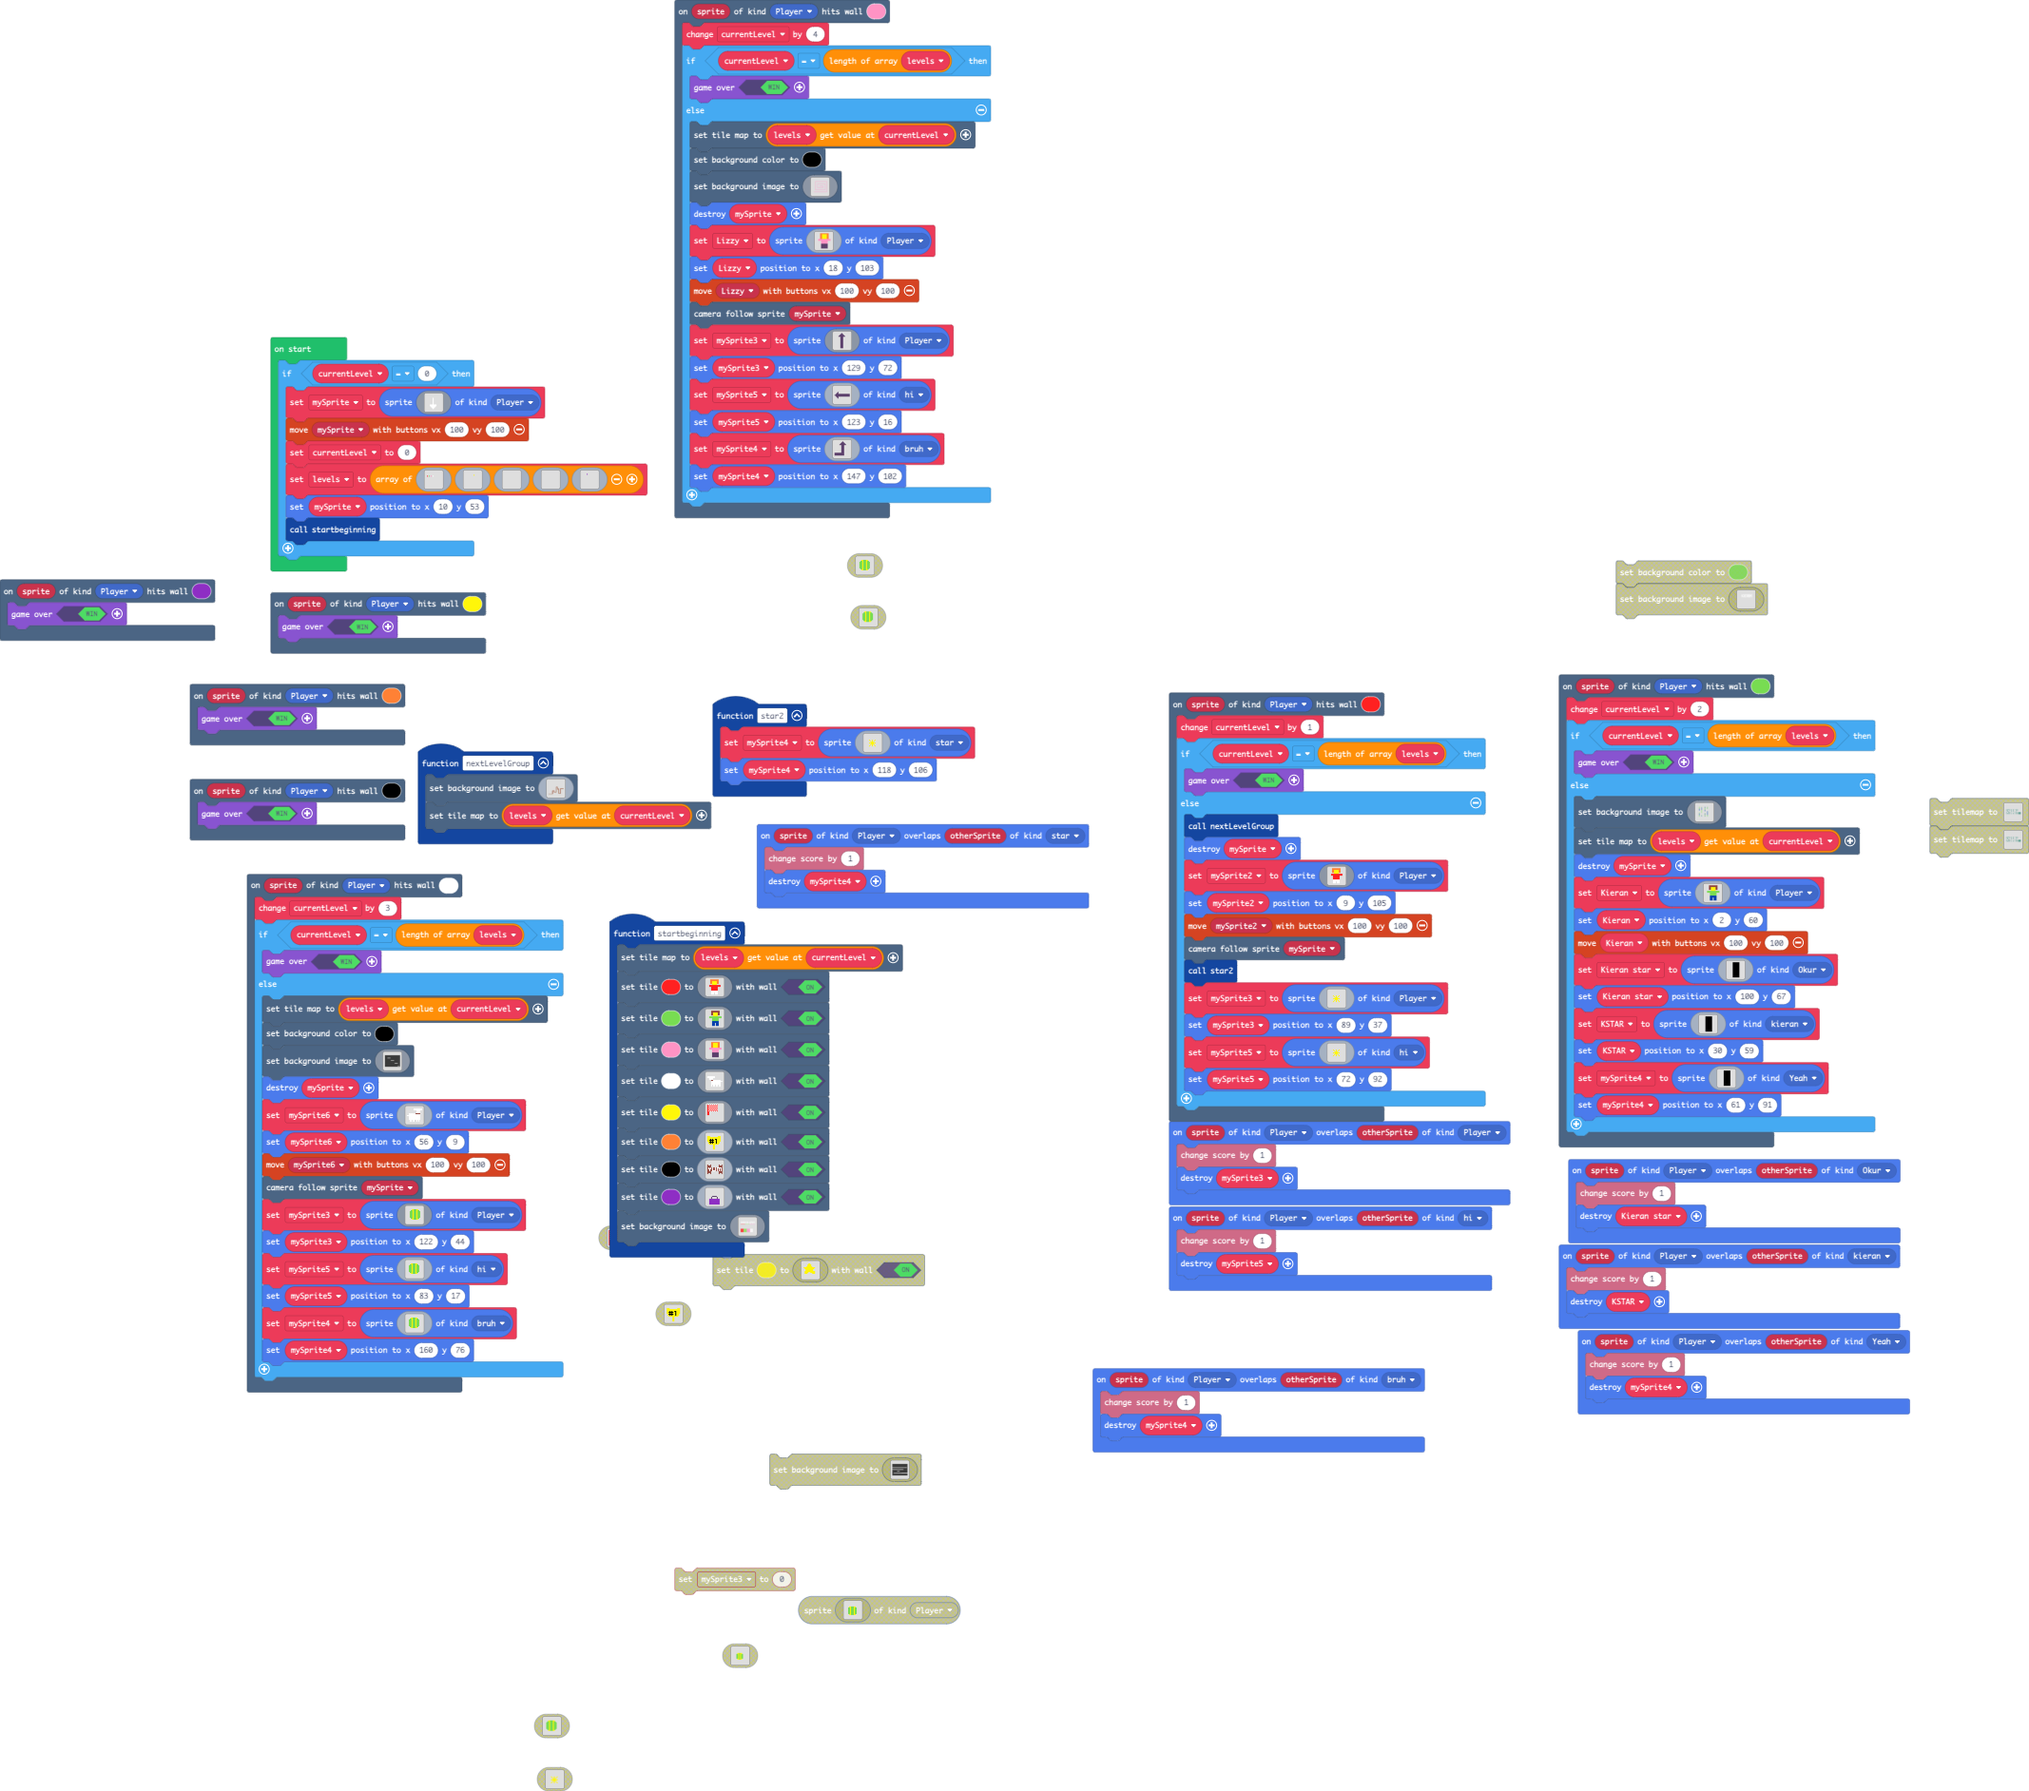
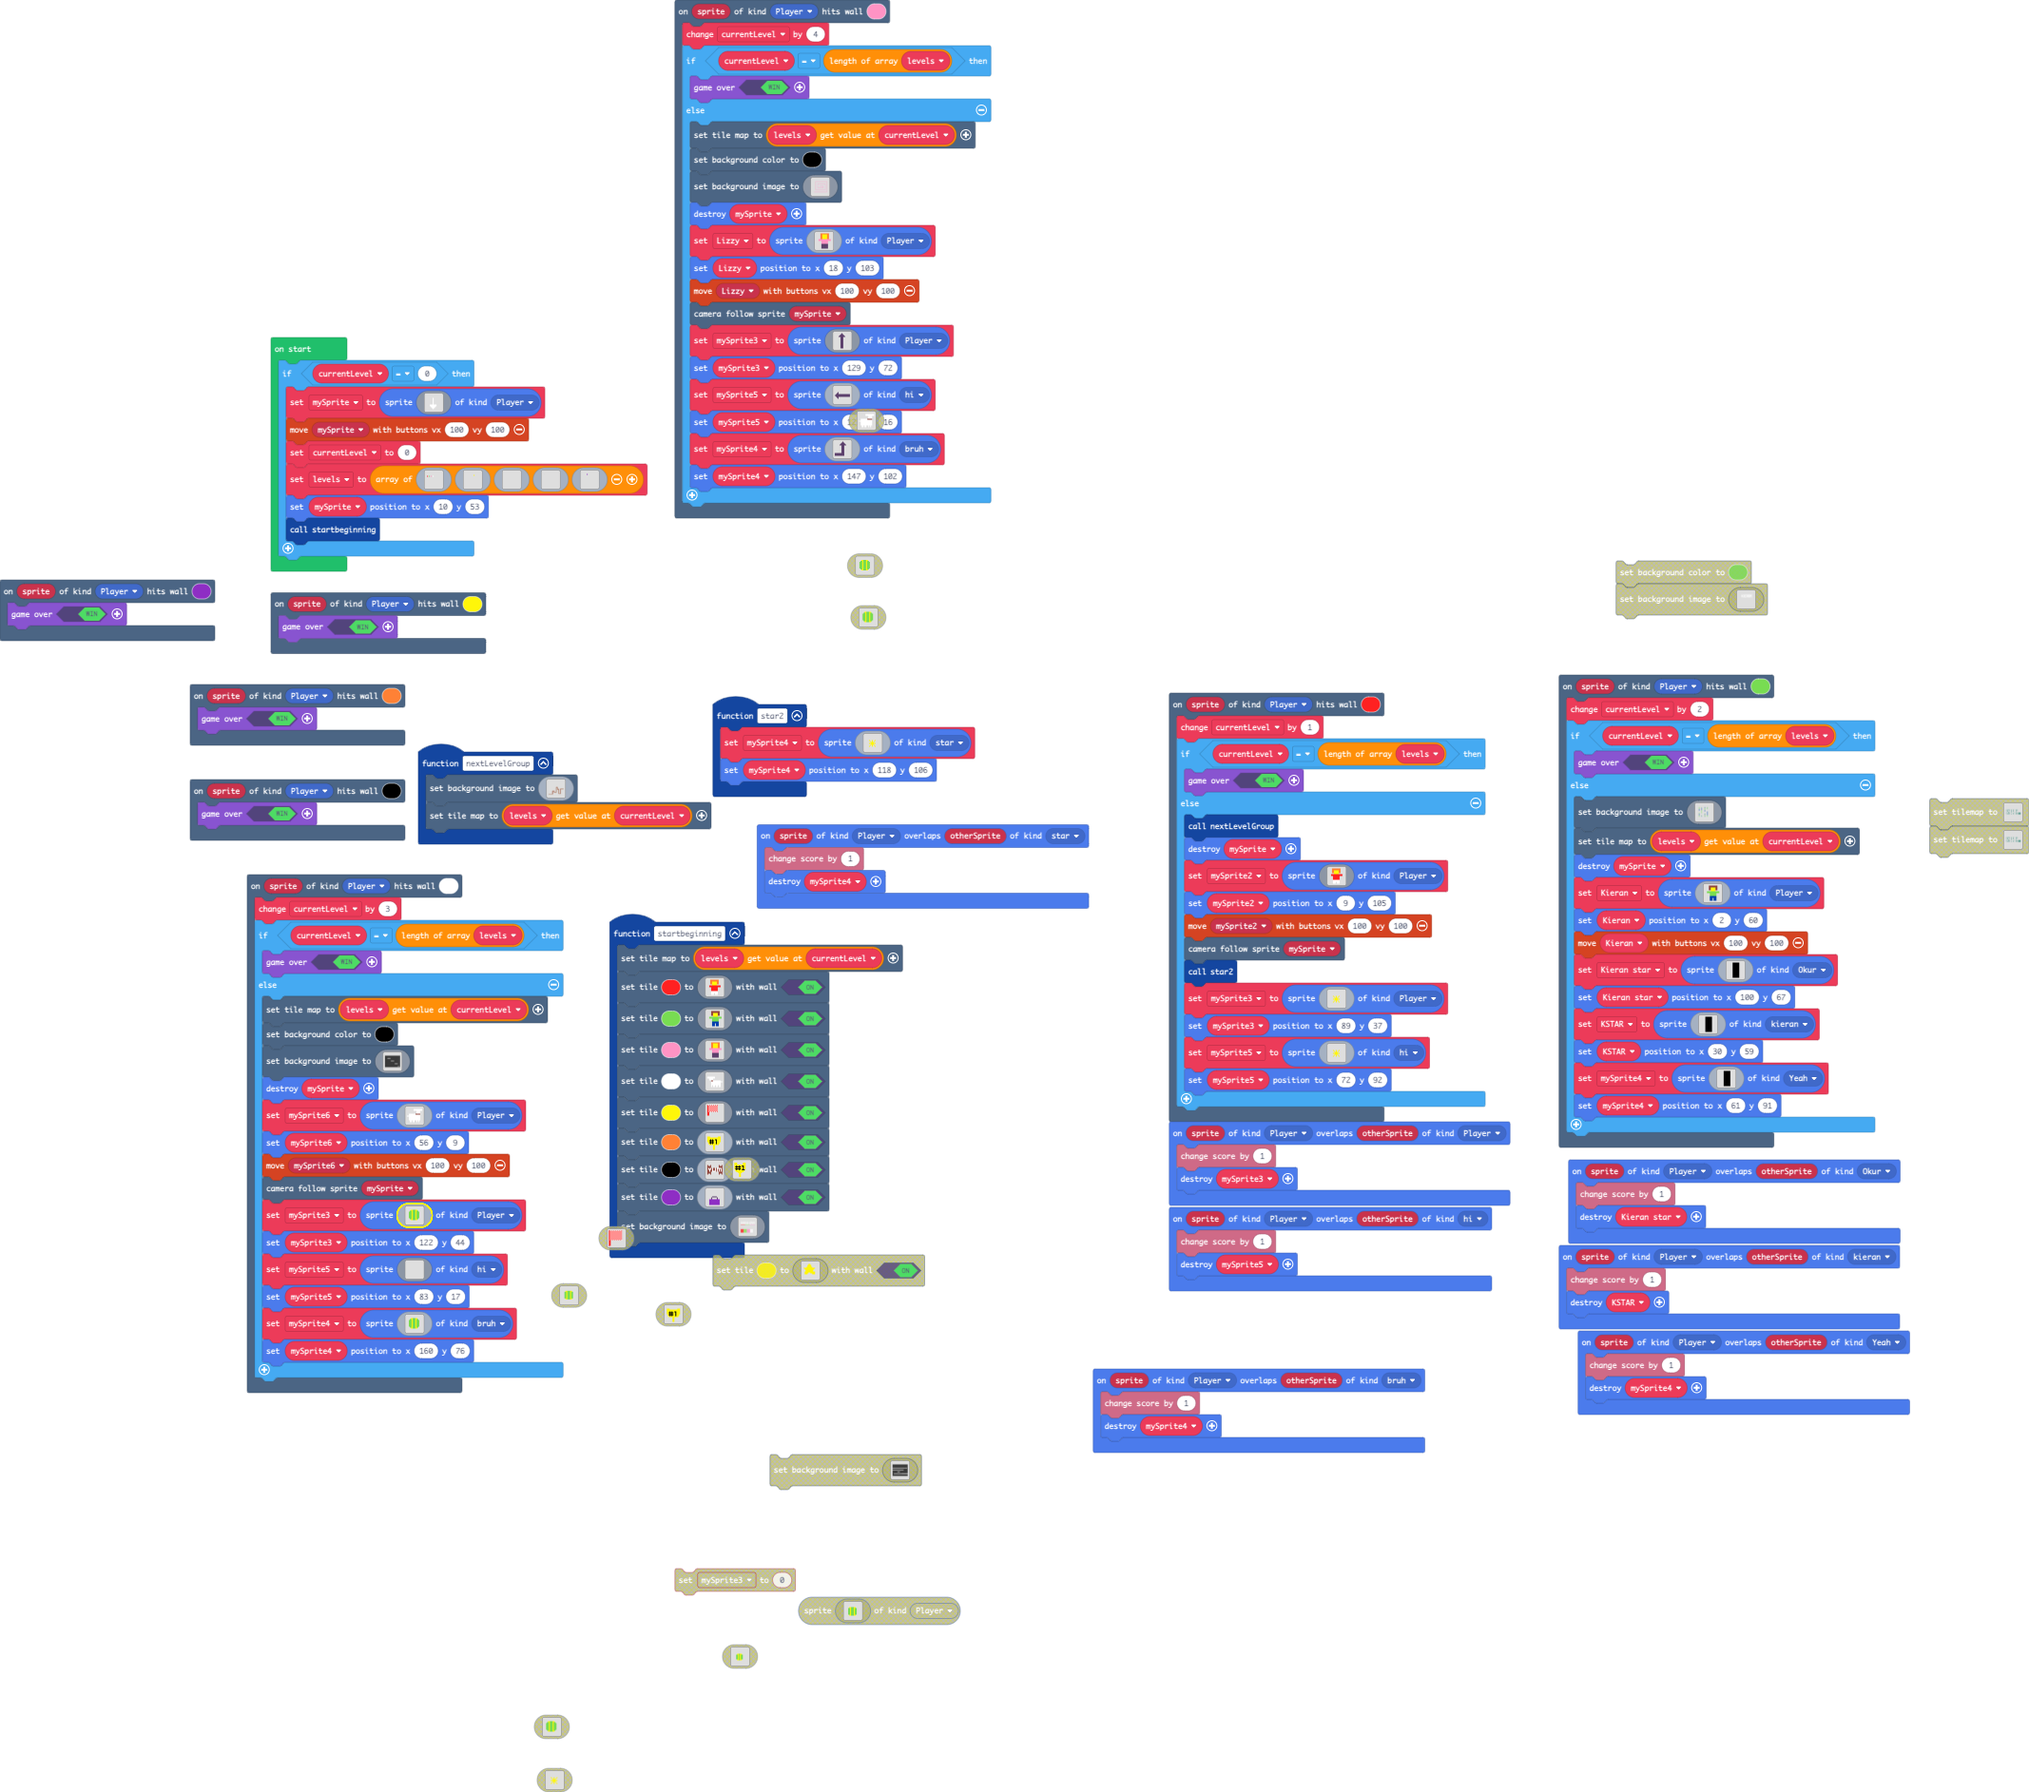
Update main.blocks, main.ts

diff --git a/main.ts b/main.ts
@@ -1029,17 +1029,17 @@ scene.onHitTile(SpriteKind.Player, 1, function (sprite) {
         mySprite3 = sprites.create(img`
             . . . . . . . . . . . . . . . . 
             . . . . . . . . . . . . . . . . 
-            . . . . . 5 5 7 7 7 5 5 . . . . 
-            . . . . 7 7 5 7 7 7 5 7 7 . . . 
-            . . . 7 7 7 5 7 7 7 5 7 7 7 . . 
-            . . . 7 7 7 5 7 7 7 5 7 7 7 . . 
-            . . . 7 7 7 5 7 7 7 5 7 7 7 . . 
-            . . . 7 7 7 5 7 7 7 5 7 7 7 . . 
-            . . . 7 7 7 5 7 7 7 5 7 7 7 . . 
-            . . . 7 7 7 5 7 7 7 5 7 7 7 . . 
-            . . . 7 7 7 5 7 7 7 5 7 7 7 . . 
-            . . . . 7 7 5 7 7 7 5 7 7 . . . 
-            . . . . . 5 5 7 7 7 5 5 . . . . 
+            . . . . 5 5 7 7 7 5 5 . . . . . 
+            . . . 7 7 5 7 7 7 5 7 7 . . . . 
+            . . 7 7 7 5 7 7 7 5 7 7 7 . . . 
+            . . 7 7 7 5 7 7 7 5 7 7 7 . . . 
+            . . 7 7 7 5 7 7 7 5 7 7 7 . . . 
+            . . 7 7 7 5 7 7 7 5 7 7 7 . . . 
+            . . 7 7 7 5 7 7 7 5 7 7 7 . . . 
+            . . 7 7 7 5 7 7 7 5 7 7 7 . . . 
+            . . 7 7 7 5 7 7 7 5 7 7 7 . . . 
+            . . . 7 7 5 7 7 7 5 7 7 . . . . 
+            . . . . 5 5 7 7 7 5 5 . . . . . 
             . . . . . . . . . . . . . . . . 
             . . . . . . . . . . . . . . . . 
             . . . . . . . . . . . . . . . . 
@@ -1048,17 +1048,17 @@ scene.onHitTile(SpriteKind.Player, 1, function (sprite) {
         mySprite5 = sprites.create(img`
             . . . . . . . . . . . . . . . . 
             . . . . . . . . . . . . . . . . 
-            . . . . 5 5 7 7 7 5 5 . . . . . 
-            . . . 7 7 5 7 7 7 5 7 7 . . . . 
-            . . 7 7 7 5 7 7 7 5 7 7 7 . . . 
-            . . 7 7 7 5 7 7 7 5 7 7 7 . . . 
-            . . 7 7 7 5 7 7 7 5 7 7 7 . . . 
-            . . 7 7 7 5 7 7 7 5 7 7 7 . . . 
-            . . 7 7 7 5 7 7 7 5 7 7 7 . . . 
-            . . 7 7 7 5 7 7 7 5 7 7 7 . . . 
-            . . 7 7 7 5 7 7 7 5 7 7 7 . . . 
-            . . . 7 7 5 7 7 7 5 7 7 . . . . 
-            . . . . 5 5 7 7 7 5 5 . . . . . 
+            . . . . . . . . . . . . . . . . 
+            . . . . . . . . . . . . . . . . 
+            . . . . . . . . . . . . . . . . 
+            . . . . . . . . . . . . . . . . 
+            . . . . . . . . . . . . . . . . 
+            . . . . . . . . . . . . . . . . 
+            . . . . . . . . . . . . . . . . 
+            . . . . . . . . . . . . . . . . 
+            . . . . . . . . . . . . . . . . 
+            . . . . . . . . . . . . . . . . 
+            . . . . . . . . . . . . . . . . 
             . . . . . . . . . . . . . . . . 
             . . . . . . . . . . . . . . . . 
             . . . . . . . . . . . . . . . . 
